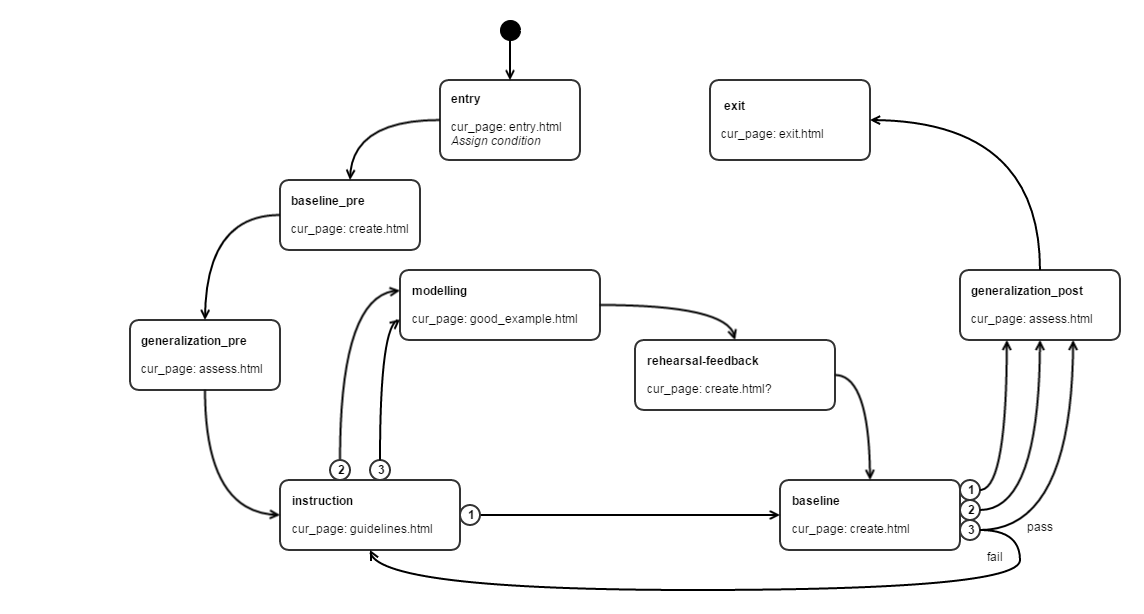
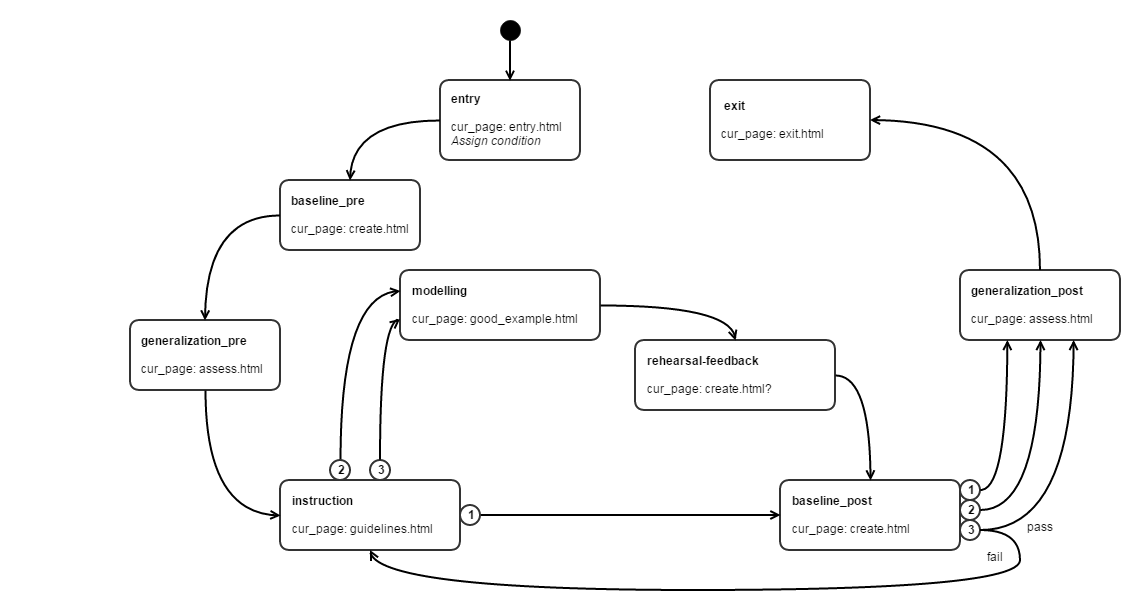
create_page.php

diff --git a/php/cur_page.php b/php/cur_page.php
@@ -1,0 +1,63 @@
+<?php
+
+	$servername = "localhost";
+	$username = "webadmin";
+	$password = "ieeecs";
+	$dbname = "infant_sleep";
+	// Create connection
+	$conn = new mysqli($servername, $username, $password, $dbname);
+	// Check connection
+	if ($conn->connect_error) {
+		die("Connection failed: " . $conn->connect_error);
+	}
+
+	$sql = "SELECT * FROM `Participants` WHERE participant_id = ".$_GET["participant_id"];
+	$results = mysqli_query($conn,$sql);
+	
+	if($results){
+		$row = mysqli_fetch_array($results);
+		$phase = $row["exp_phase"];
+		
+		$result_URL = NULL;
+		
+		switch ($phase):
+			case "entry":
+				$result_URL = "entry.html";
+				break;
+			case "baseline_pre":
+				$result_URL = "create.html";
+				break;
+			case "generalization_pre":
+				$result_URL = "assess.html";
+				break;
+			case "instruction":
+				$result_URL = "guidelines.html";
+				break;
+			case "modelling":
+				$result_URL = "good_example.html";
+				break;
+			case "rehearsal-feedback":
+				$result_URL = "create.html?";
+				break;
+			case "baseline_post":
+				$result_URL = "create.html";
+				break;
+			case "generalization_post":
+				$result_URL = "assess.html";
+				break;
+			case "exit":
+				$result_URL = "exit.html";
+				break;
+			default:
+				$result_URL = "entry.html";
+		endswitch;
+		
+		$sql = "UPDATE `Participants` SET exp_condition='".$new_condition."', exp_phase=`".$new_phase."` exp_iteration=".$new_iteration." WHERE participant_id = ".$_GET["participant_id"];
+		$results = mysqli_query($conn,$sql);
+
+		echo($result_URL);
+	}
+	else {
+		echo("ERROR: No participant found!");
+	}
+?>

diff --git a/php/next_page.php b/php/next_page.php
@@ -38,7 +38,7 @@
 				break;
 			case "instruction":
 				if ($condition==1) {
-					$new_phase = "baseline";
+					$new_phase = "baseline_post";
 					$result_URL = "create.html";
 				}
 				if ($condition==2 || $condition==3) {
@@ -54,10 +54,10 @@
 				$result_URL = "create.html?";
 				break;
 			case "rehearsal-feedback":
-				$new_phase = "baseline";
+				$new_phase = "baseline_post";
 				$result_URL = "create.html";
 				break;
-			case "baseline":
+			case "baseline_post":
 				if ($condition==1 || $condition==2) {
 					$new_phase = "generalization_post";
 					$result_URL = "assess.html";
